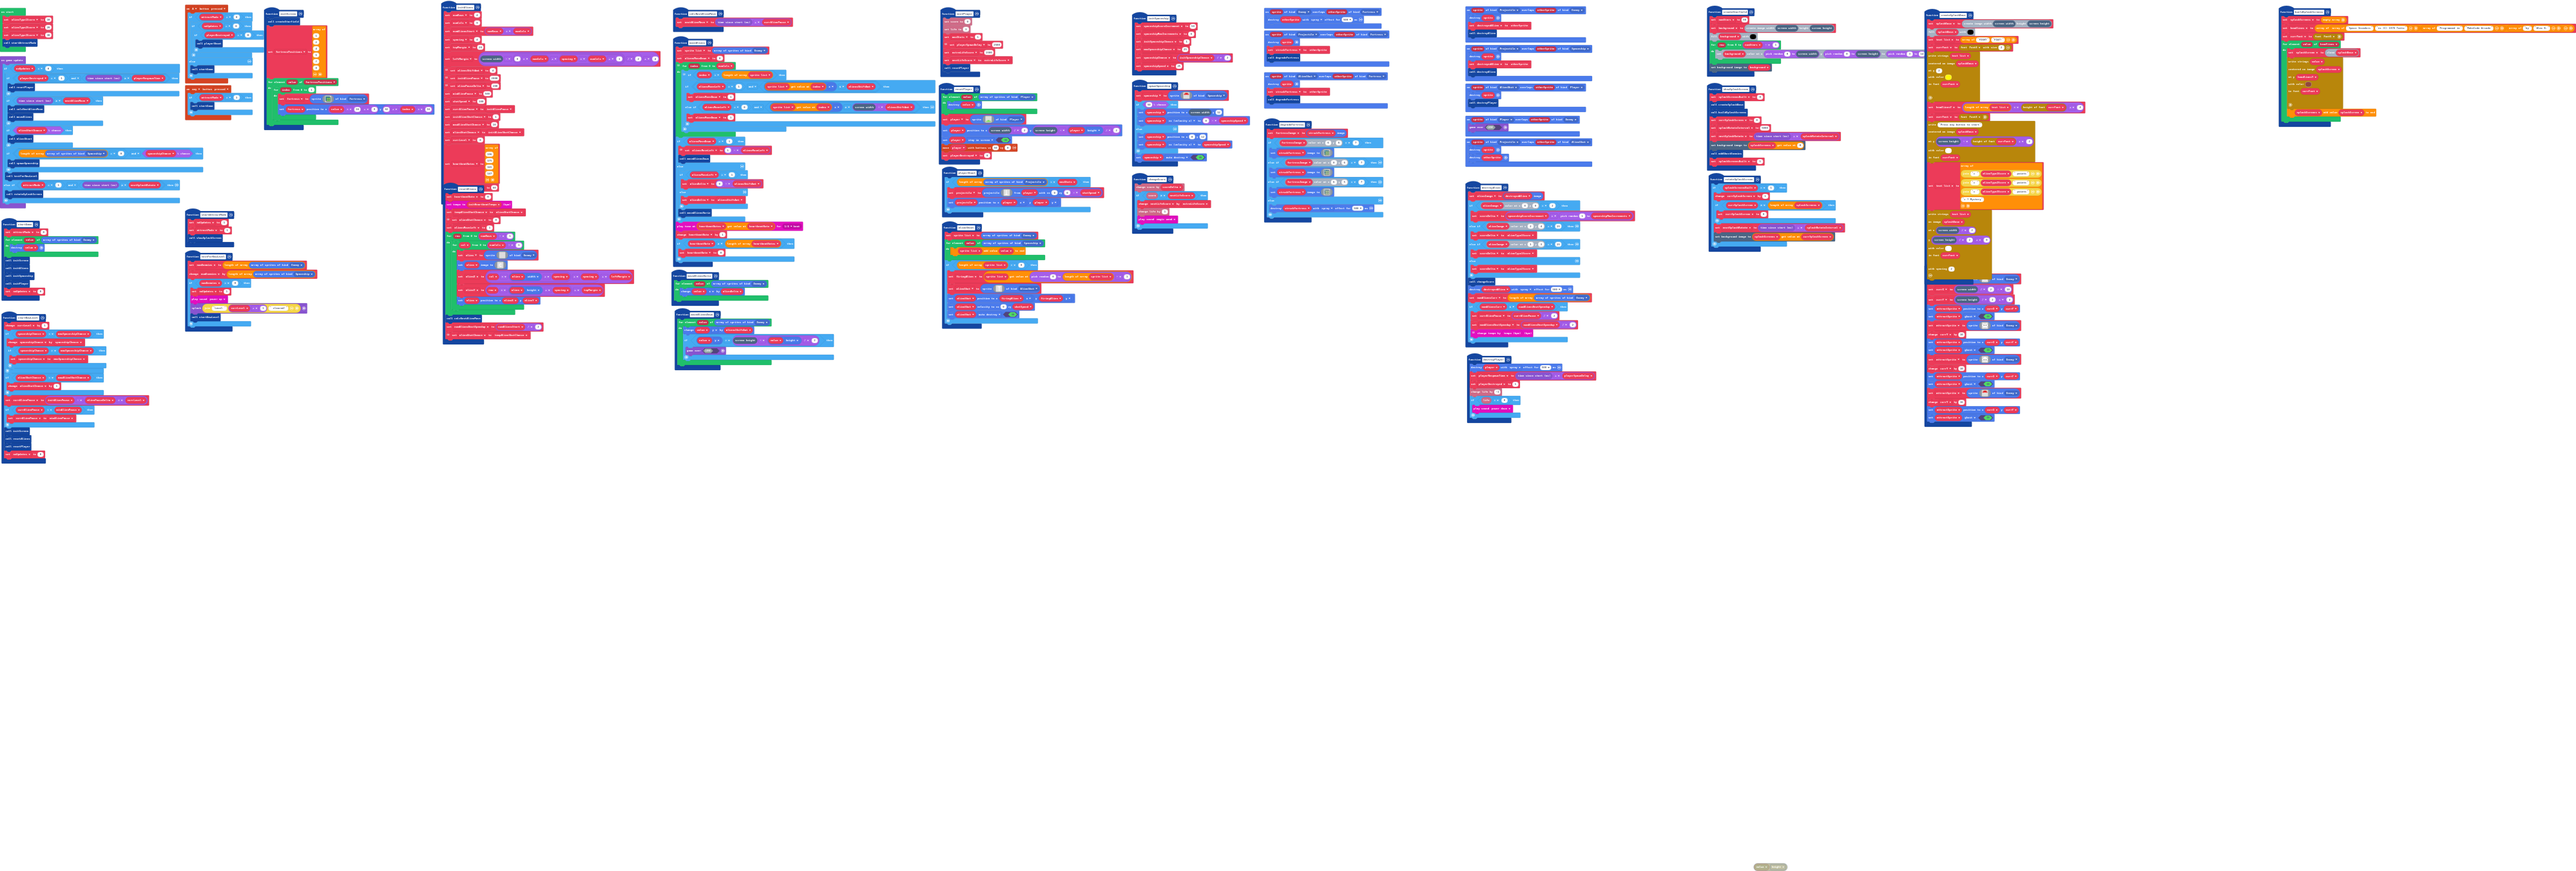
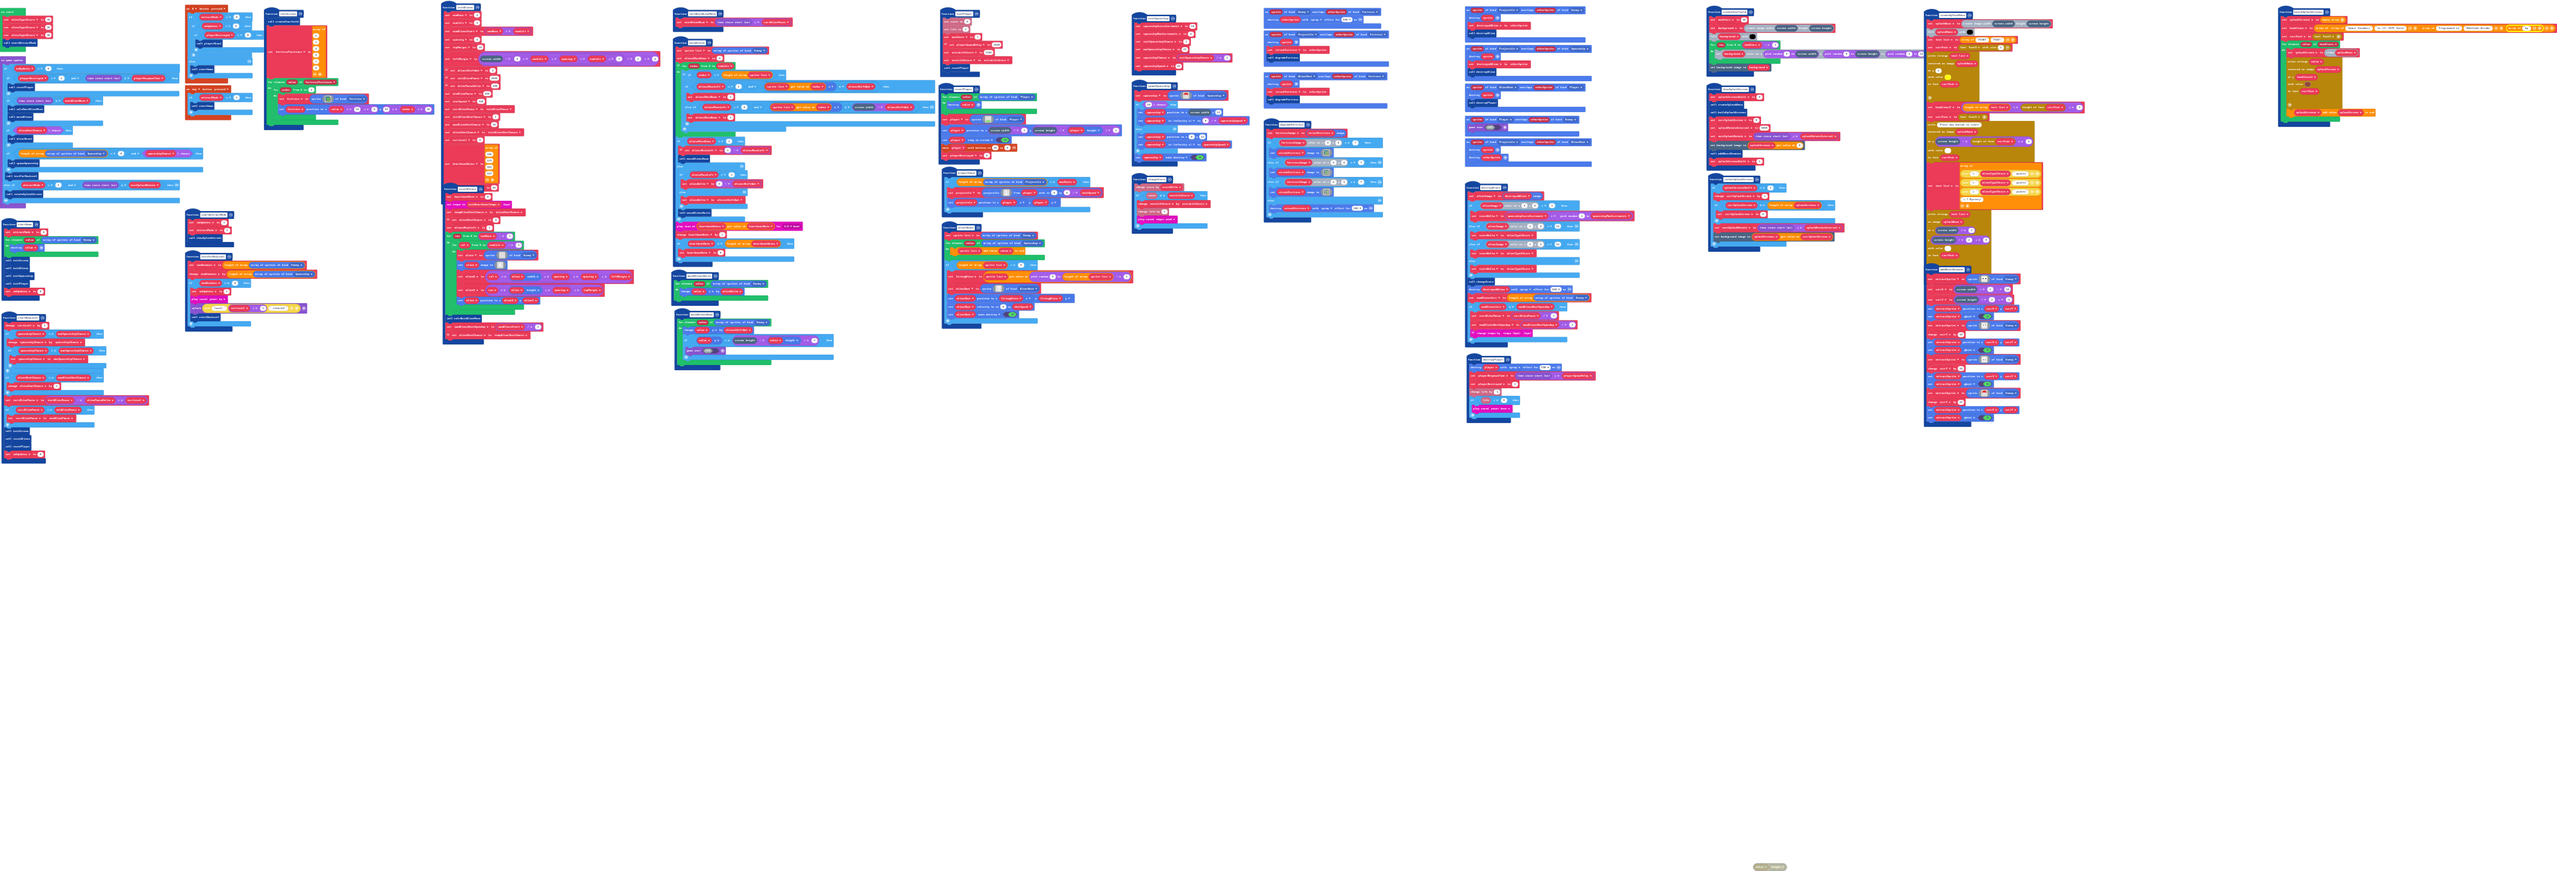
Update main.blocks, main.ts

diff --git a/main.ts b/main.ts
@@ -544,7 +544,7 @@ function initAliens () {
 }
 function buildSplashScreens () {
     splashScreens = []
-    headlines = [["Space Invaders", "is (C) 1978 Taito"], ["Programmed in", "MakeCode Arcade"], ["by", "Alex K."]]
+    headlines = [["Space Invaders", "is (C) 1978 Taito"], ["Programmed in", "MakeCode Arcade"], ["by"]]
     currFont = drawStrings.createFontInfo(FontName.Font5)
     for (let value of headlines) {
         splashScreen = splashBase.clone()
